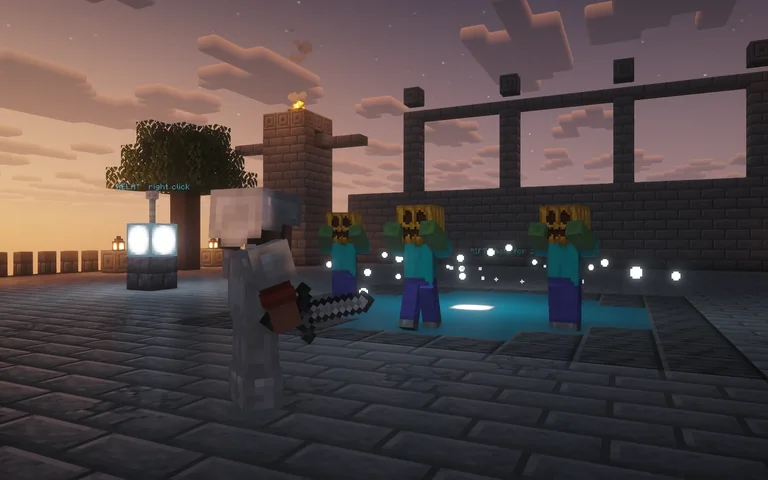
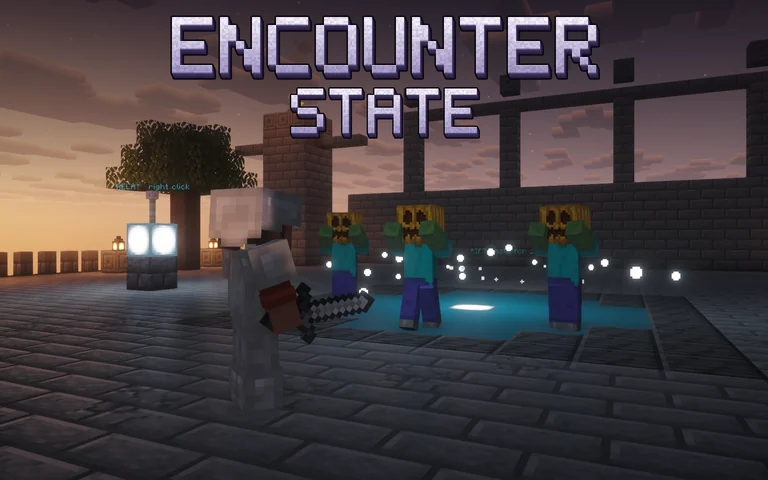
feat: titles on the showcase slides that do not show their name, and sharper board text

Changed region(s): [[0.0, 0.0, 1.0, 0.375]]

diff --git a/src/components/concepts/ConceptC.tsx b/src/components/concepts/ConceptC.tsx
@@ -10,7 +10,7 @@ import { LivePreview, liveMode } from './LivePreview';
 const AUTOPLAY_MS = 6500;
 // Each work's own colour, taken from its interface (dark ones lifted to read on the graphite page); the page
 // borrows the colour of the work on screen.
-const BOARDS: Record<string, { file: string; accent: string }> = {
+const BOARDS: Record<string, { file: string; accent: string; titled?: boolean }> = {
   'electronics-store': { file: 'store', accent: '#3a6cf2' },
   forma: { file: 'forma', accent: '#2745c8' },
   'admin-dashboard': { file: 'orbit', accent: '#1eaefc' },
@@ -24,16 +24,21 @@ const BOARDS: Record<string, { file: string; accent: string }> = {
   'tilda-tour': { file: 'tour', accent: '#4fa584' },
   'tilda-dental': { file: 'dental', accent: '#4aa38c' },
   'tilda-webinar': { file: 'webinar', accent: '#c7795a' },
-  motion: { file: 'motion', accent: '#e4572e' },
+  motion: { file: 'motion', accent: '#e4572e', titled: true },
   encounter: { file: 'encounter', accent: '#9a7cf4' },
   'tilda-interior': { file: 'tilda', accent: '#8e9b64' },
   khrum: { file: 'khrum', accent: '#6a47c2' },
   'dev-utilities': { file: 'devutil', accent: '#2fb39a' },
 };
+// A frame without the work's name carries a title in the picture, so it has a board per language.
+const boardPath = (slug: string, locale: Locale, size = '', layer = '') => {
+  const { file, titled } = BOARDS[slug];
+  return `/assets/home/board-${file}${titled && locale === 'en' ? '-en' : ''}${size}${layer}.webp`;
+};
 const rgb = (hex: string): [number, number, number] => [1, 3, 5].map(i => parseInt(hex.slice(i, i + 2), 16) / 255) as [number, number, number];
 const capitalize = (s: string) => s.charAt(0).toUpperCase() + s.slice(1);
 
-function Hero({ works, t }: { works: HomeWork[]; t: Dictionary }) {
+function Hero({ works, t, locale }: { works: HomeWork[]; t: Dictionary; locale: Locale }) {
   const boardWorks = useMemo(() => works.filter(w => BOARDS[w.slug]), [works]);
   const stage = useRef<HTMLDivElement>(null), board = useRef<HTMLDivElement>(null), canvas = useRef<HTMLCanvasElement>(null), frame = useRef<HTMLAnchorElement>(null);
   const scene = useRef<Mosaic | null>(null);
@@ -49,8 +54,8 @@ function Hero({ works, t }: { works: HomeWork[]; t: Dictionary }) {
     if (reduced) setPlaying(false);
     const suffix = small ? '-768' : '';
     const sources: MosaicSource[] = boardWorks.map(w => ({
-      color: `/assets/home/board-${BOARDS[w.slug].file}${suffix}.webp`,
-      structure: `/assets/home/board-${BOARDS[w.slug].file}${suffix}-structure.webp`,
+      color: boardPath(w.slug, locale, suffix),
+      structure: boardPath(w.slug, locale, suffix, '-structure'),
       accent: rgb(BOARDS[w.slug].accent),
     }));
     let cancelled = false;
@@ -73,7 +78,7 @@ function Hero({ works, t }: { works: HomeWork[]; t: Dictionary }) {
       } catch { setReady(false); }
     });
     return () => { cancelled = true; observer.disconnect(); scene.current?.dispose(); scene.current = null; };
-  }, [boardWorks]);
+  }, [boardWorks, locale]);
 
   const go = useCallback((next: number, direction: 1 | -1, origin?: [number, number], byUser = false) => {
     const target = (next + boardWorks.length) % boardWorks.length;
@@ -134,7 +139,7 @@ function Hero({ works, t }: { works: HomeWork[]; t: Dictionary }) {
   const paused = !playing || hold;
   // The still under the canvas only matters until the scene draws (or if it is lost); freezing it avoids
   // decoding a new full-size image on every switch.
-  const still = BOARDS[(ready ? boardWorks[0] : work).slug].file;
+  const still = (ready ? boardWorks[0] : work).slug;
   return <section className="cc-hero" aria-labelledby="cc-title" style={{ '--accent': BOARDS[work.slug].accent } as React.CSSProperties}>
     <div className="cc-hero-copy">
       <h1 id="cc-title">{t.heroTitle}</h1>
@@ -154,7 +159,7 @@ function Hero({ works, t }: { works: HomeWork[]; t: Dictionary }) {
           aria-label={t.boardLabel(work.title)}
           onPointerDown={down} onPointerMove={move} onPointerUp={up} onPointerCancel={() => { press.current = null; }}
           onClick={e => { if (suppressClick.current) { e.preventDefault(); suppressClick.current = false; } }} onKeyDown={key}>
-          <img className="cc-still" src={`/assets/home/board-${still}.webp`} srcSet={`/assets/home/board-${still}-768.webp 768w, /assets/home/board-${still}.webp 1440w`}
+          <img className="cc-still" src={boardPath(still, locale)} srcSet={`${boardPath(still, locale, '-768')} 768w, ${boardPath(still, locale)} 1440w`}
             sizes="(max-width: 860px) 100vw, 56vw" alt="" draggable={false} fetchPriority="high"/>
         </a>
       </div>
@@ -238,7 +243,7 @@ export function ConceptC({ works, locale }: { works: HomeWork[]; locale: Locale 
   return <div className="cc-page" lang={locale}>
     <Header home locale={locale} alternate={localePath(locale === 'ru' ? 'en' : 'ru', HOME)}/>
     <main id="main">
-      <Hero works={works} t={t}/>
+      <Hero works={works} t={t} locale={locale}/>
       <section className="cc-works" id="works" aria-labelledby="cc-works-title">
         <div className="cc-works-head">
           <h2 id="cc-works-title">{t.work} <span>{works.length}</span></h2>

diff --git a/src/lib/concepts/mosaic.ts b/src/lib/concepts/mosaic.ts
@@ -92,10 +92,12 @@ varying vec2 vUvA, vUvB, vLocal;
 varying float vBack, vShade, vBlue, vAlpha, vLift;
 
 void main() {
-  vec3 colA = texture2D(uColorA, vUvA).rgb, colB = texture2D(uColorB, vUvB).rgb;
+  // A slight negative mip bias keeps text on the boards crisp when the board is shown a little smaller
+  // than its texture; trilinear filtering alone blends in the half-size level and softens it.
+  vec3 colA = texture2D(uColorA, vUvA, -0.6).rgb, colB = texture2D(uColorB, vUvB, -0.6).rgb;
   float edgeA = texture2D(uStructA, vUvA).r, edgeB = texture2D(uStructB, vUvB).r;
   // Reduced motion replaces the flip with a crossfade of the same two screens.
-  colA = mix(colA, texture2D(uColorB, vUvA).rgb, uFade);
+  colA = mix(colA, texture2D(uColorB, vUvA, -0.6).rgb, uFade);
   edgeA = mix(edgeA, texture2D(uStructB, vUvA).r, uFade);
   vec3 col = mix(colA, colB, vBack);
   float edge = smoothstep(0.14, 0.62, mix(edgeA, edgeB, vBack));
